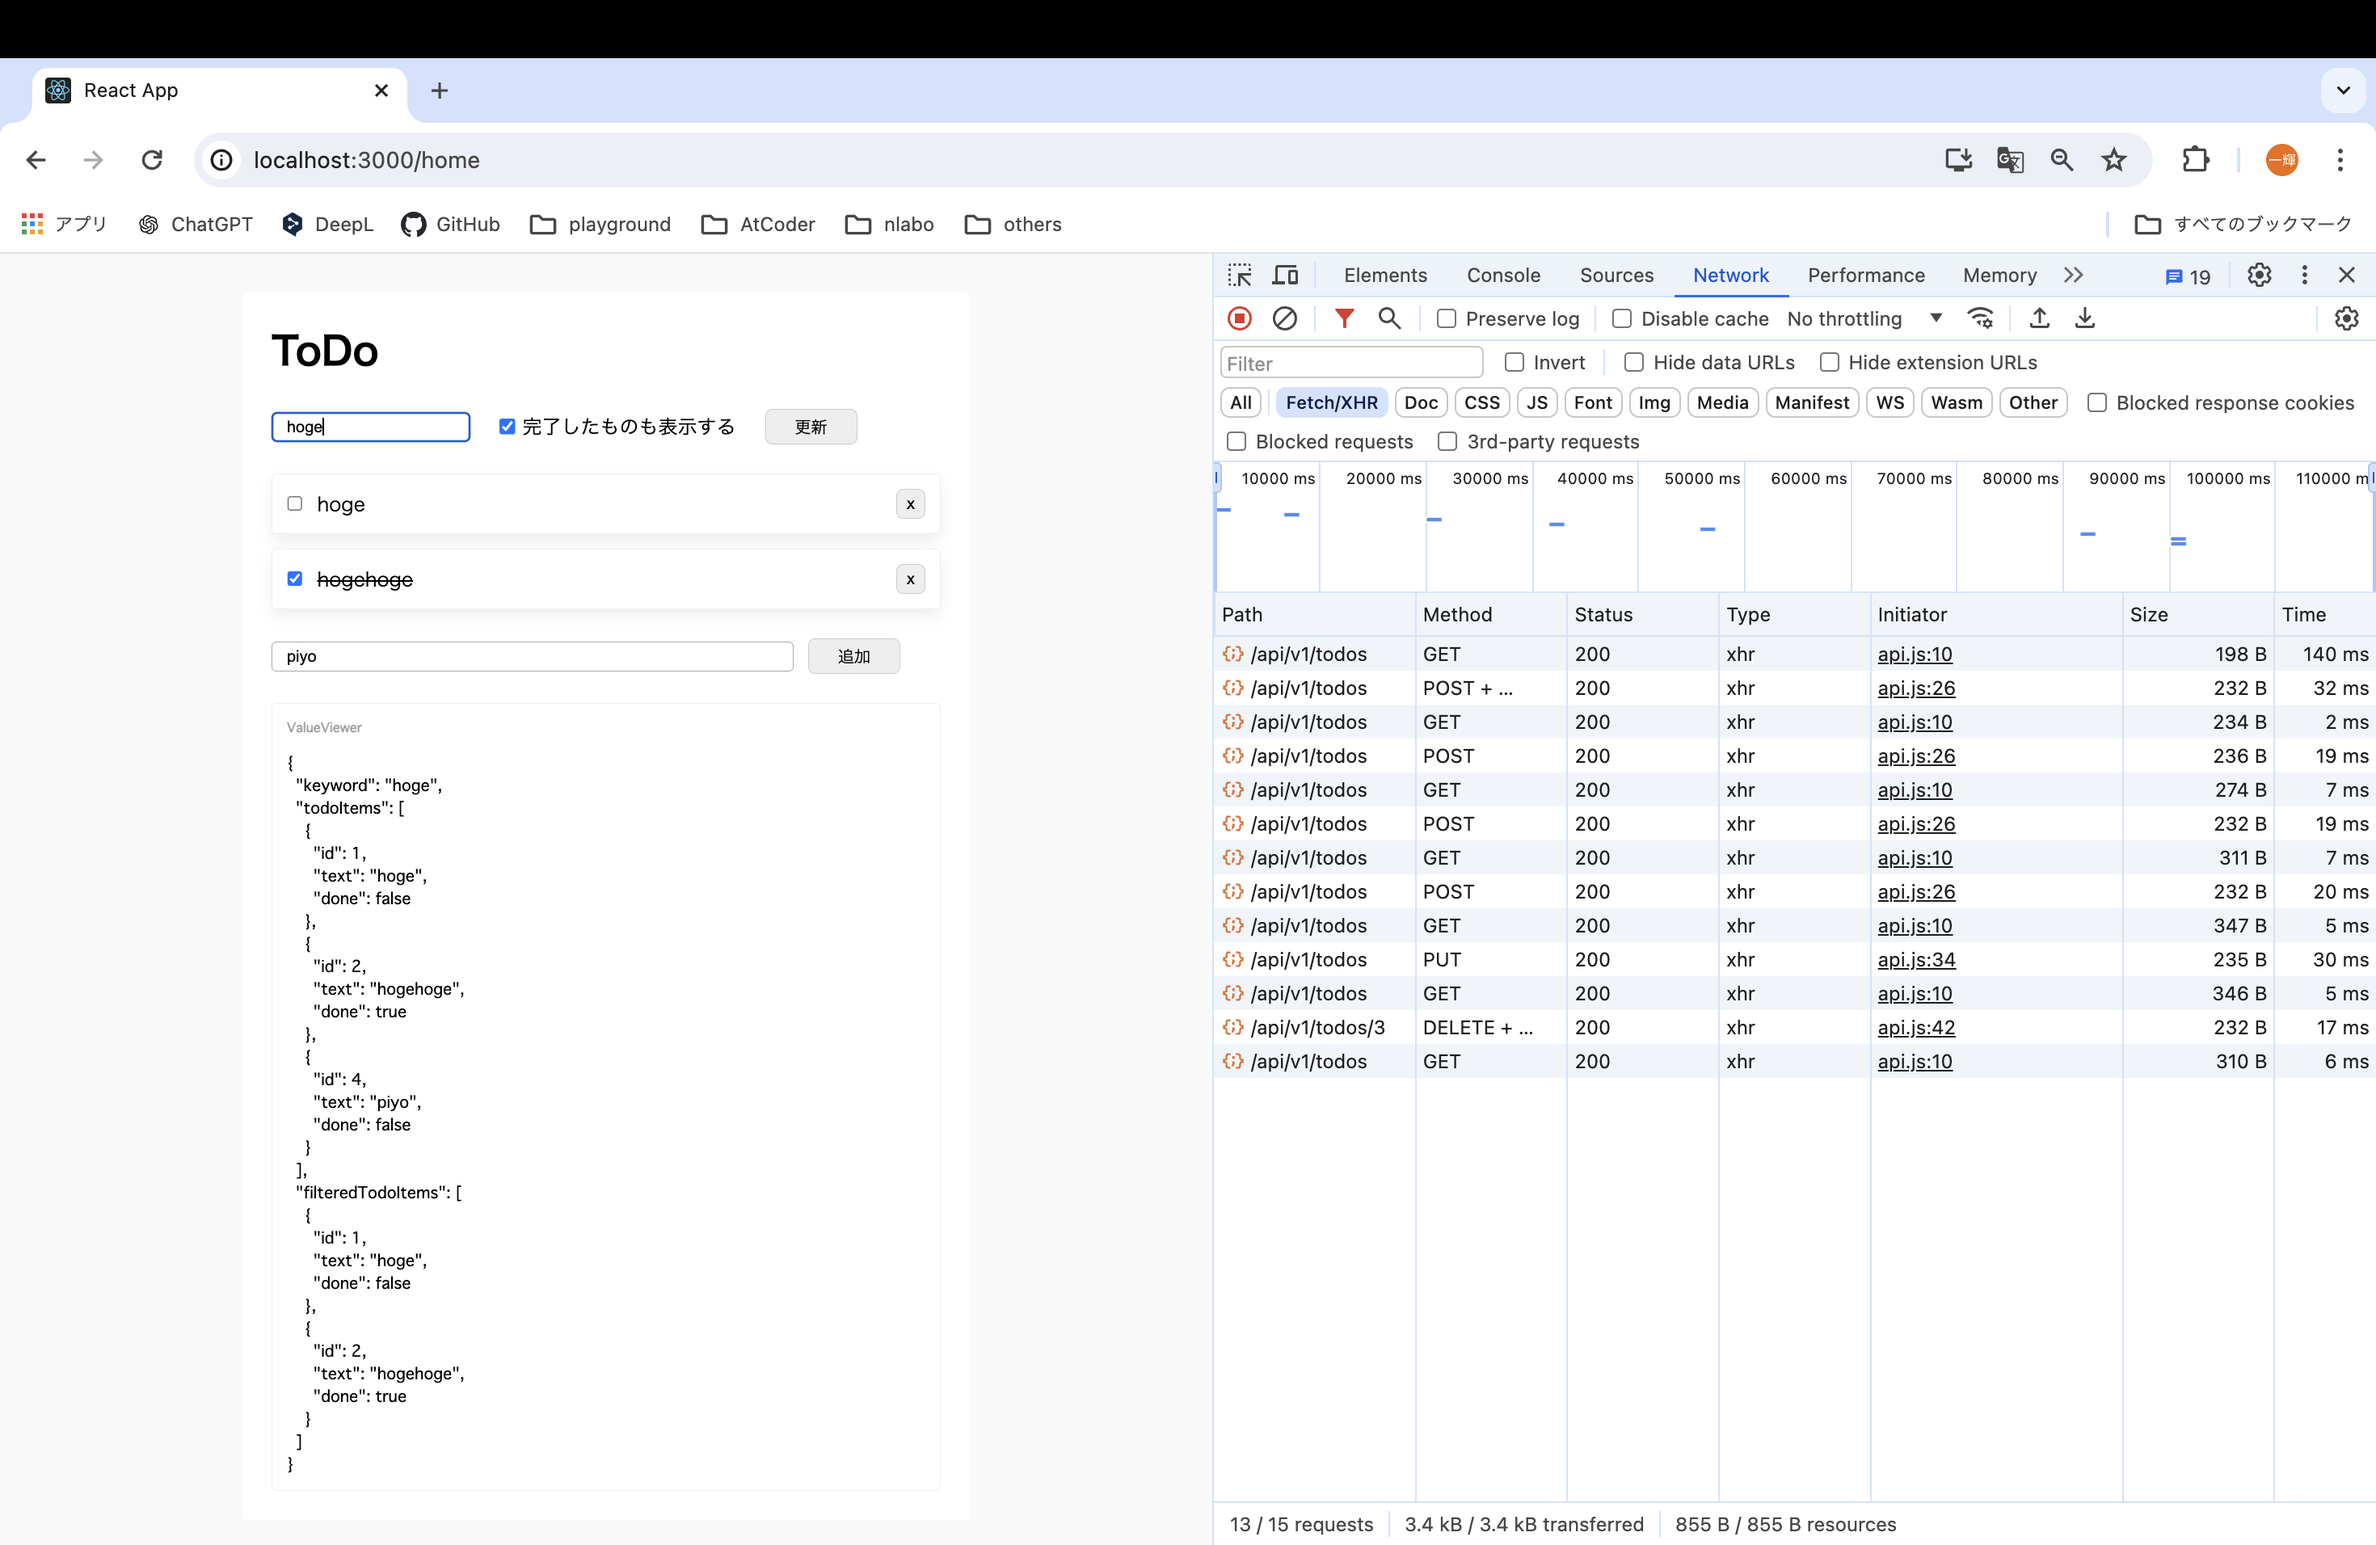
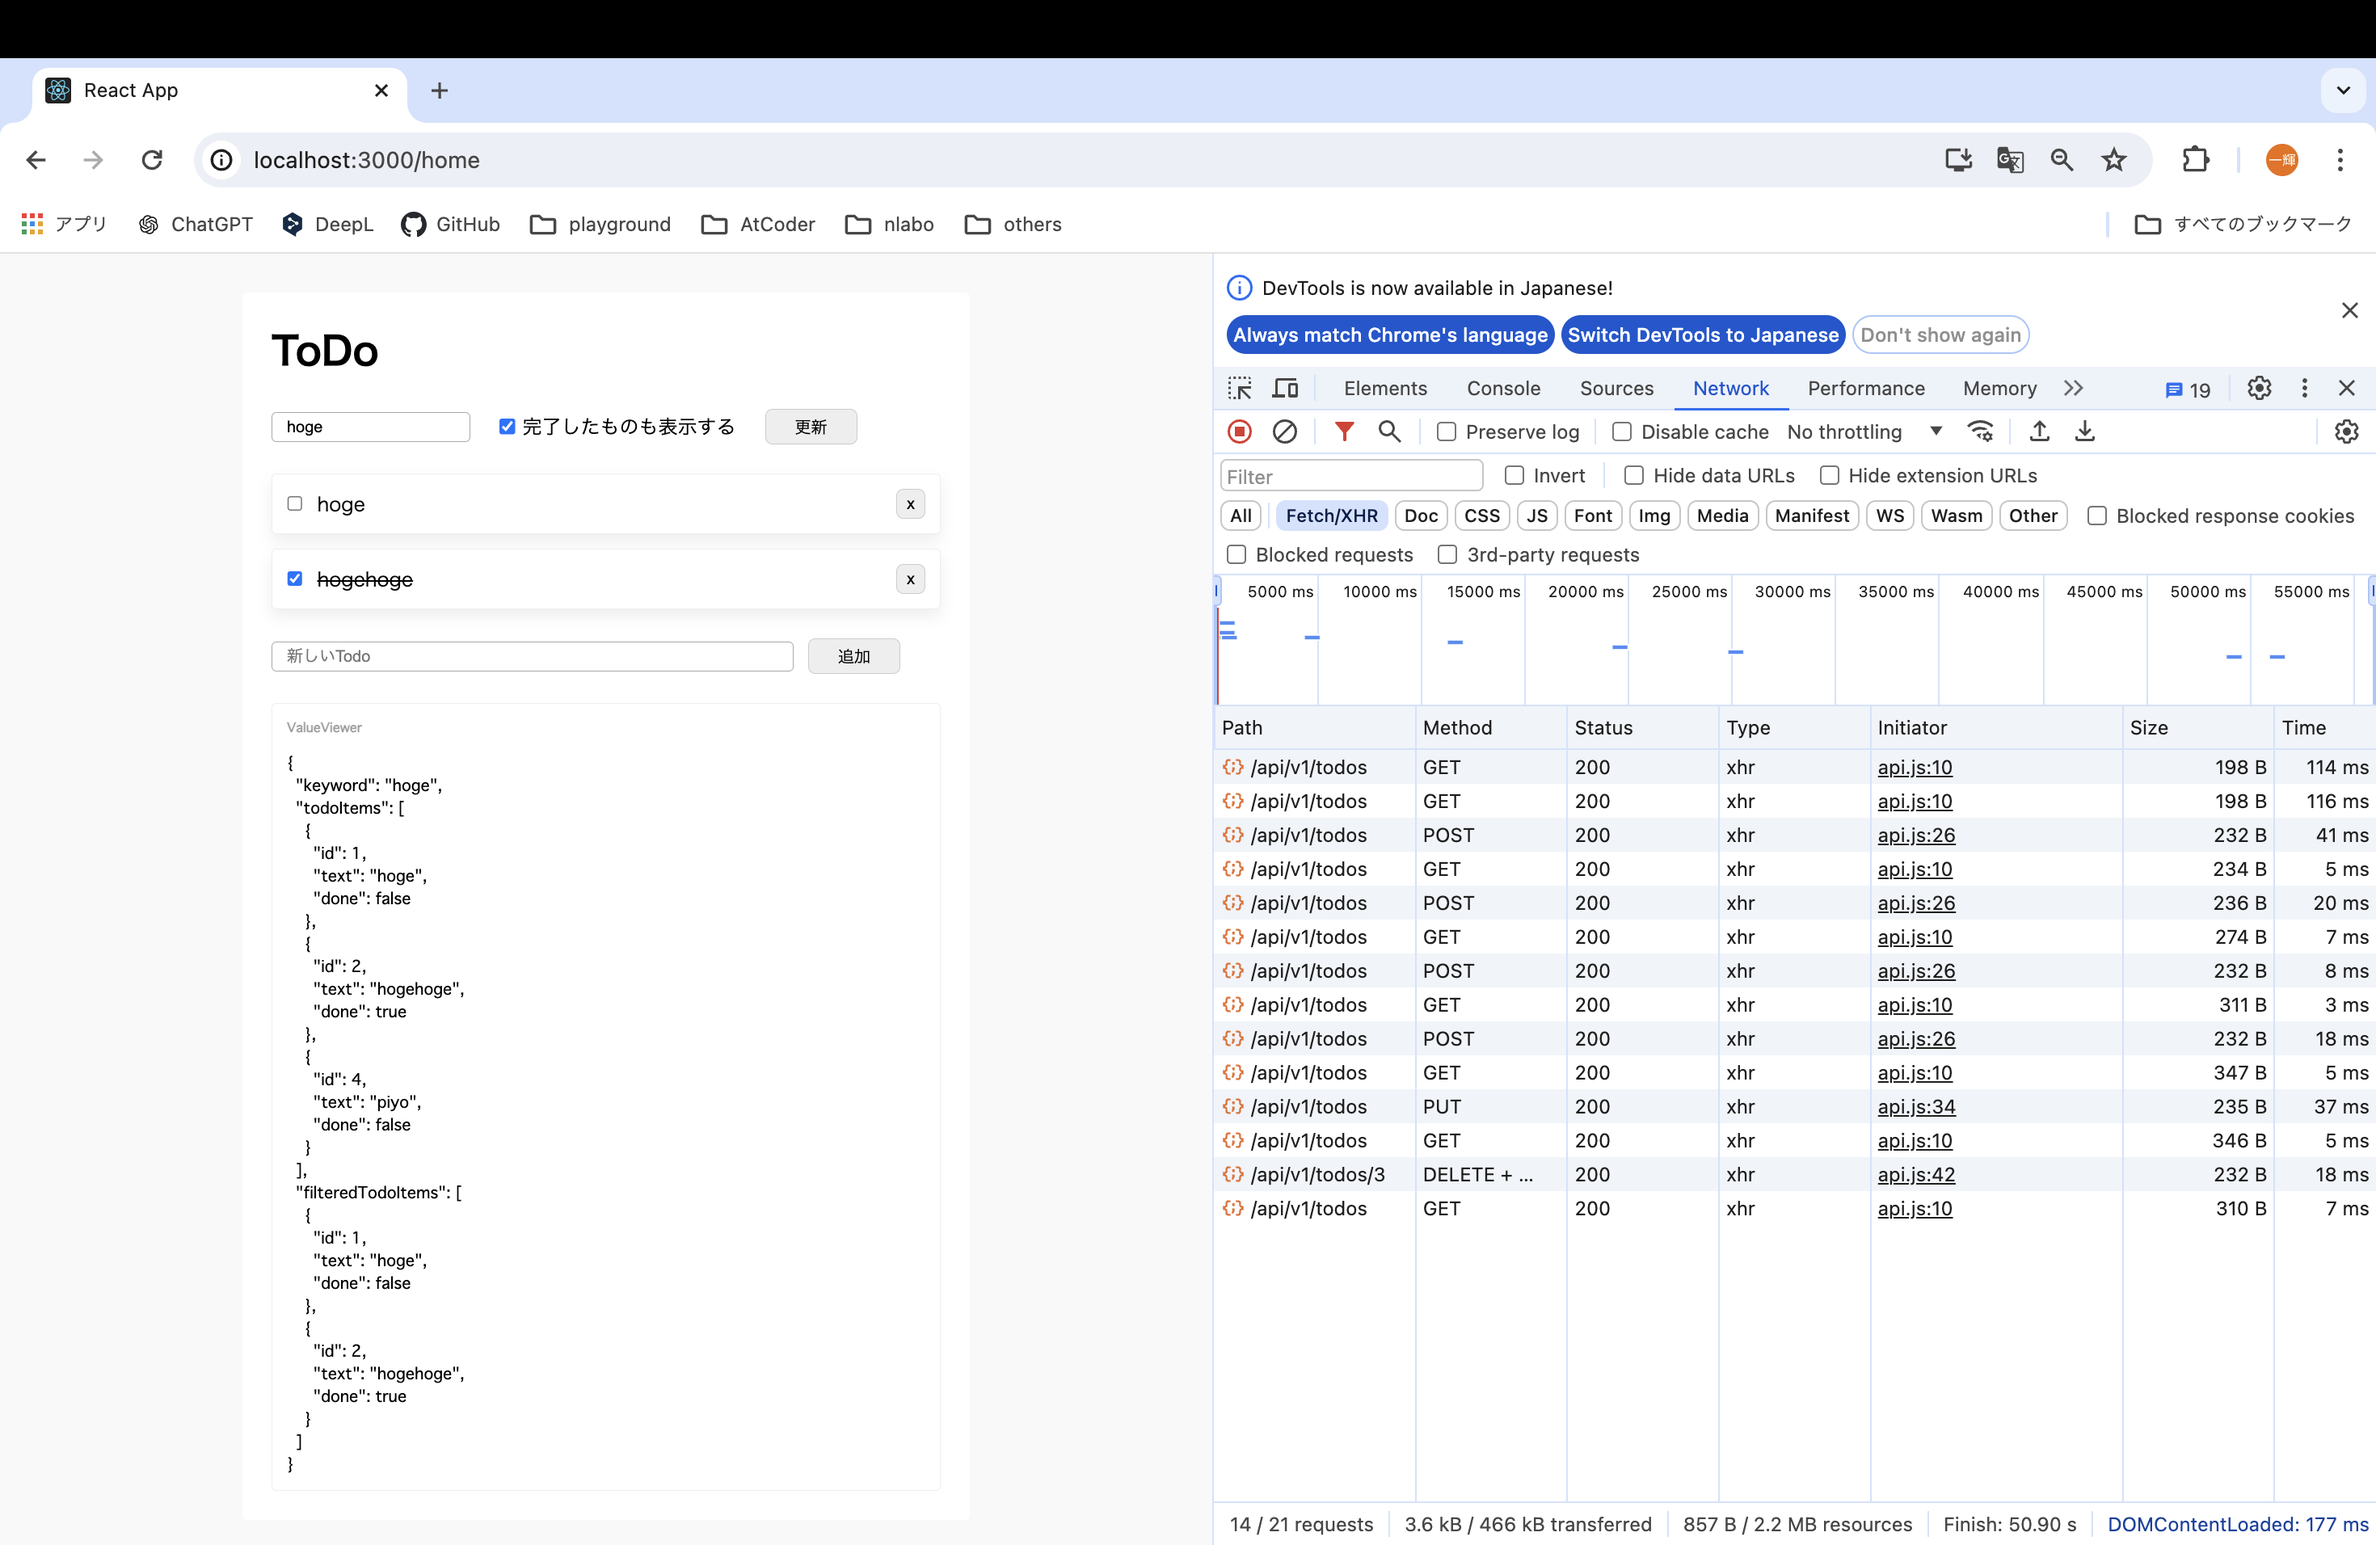
[fix] fetch all todo items on the first rendering

diff --git a/web-server/app/src/components/TodoHome/TodoHome.js b/web-server/app/src/components/TodoHome/TodoHome.js
@@ -1,4 +1,4 @@
-import { useState } from 'react';
+import { useEffect, useState } from 'react';
 
 import './TodoHome.css';
 import { TodoApi } from '../../api';
@@ -46,12 +46,14 @@ const ValueViewer = ({ value }) => {
 
 const TodoHome = () => {
   const [todoItems, setTodoItems] = useState([]);
+  const [loading, setLoading] = useState(false);
   const [keyword, setKeyword] = useState('');
   const [showingDone, setShowingDone] = useState(true);
 
   const reloadTodoItems = async () => {
-    setTodoItems(null);
+    setLoading(true);
     setTodoItems(await todoApi.readItems());
+    setLoading(false);
   };
 
   const filteredTodoItems = todoItems?.filter((item) => {
@@ -60,6 +62,10 @@ const TodoHome = () => {
     }
     return item.text.includes(keyword);
   });
+
+  useEffect(() => {
+    (async () => await reloadTodoItems())();
+  }, []);
 
   return (
     <div className="todo-container">
@@ -81,7 +87,7 @@ const TodoHome = () => {
         <button onClick={() => reloadTodoItems()}>更新</button>
       </div>
 
-      {filteredTodoItems === undefined ? (
+      {loading ? (
         <div className="dimmed">データを取得中です...</div>
       ) : filteredTodoItems?.length === 0 ? (
         <div className="dimmed">該当するToDoはありません</div>
